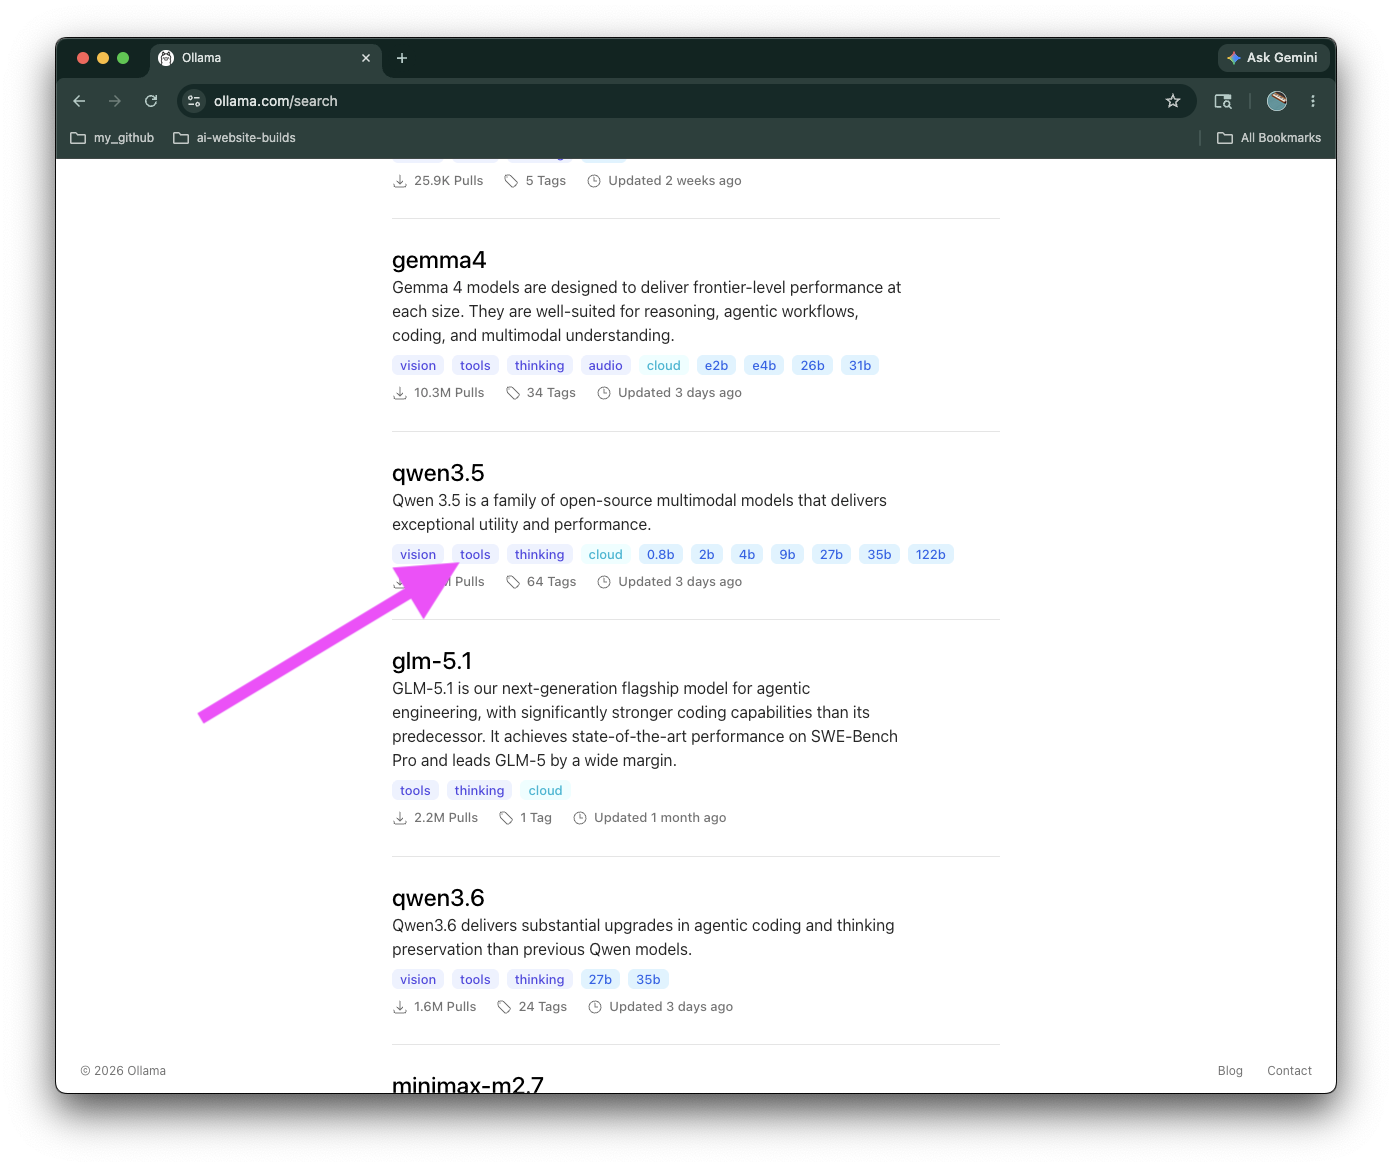
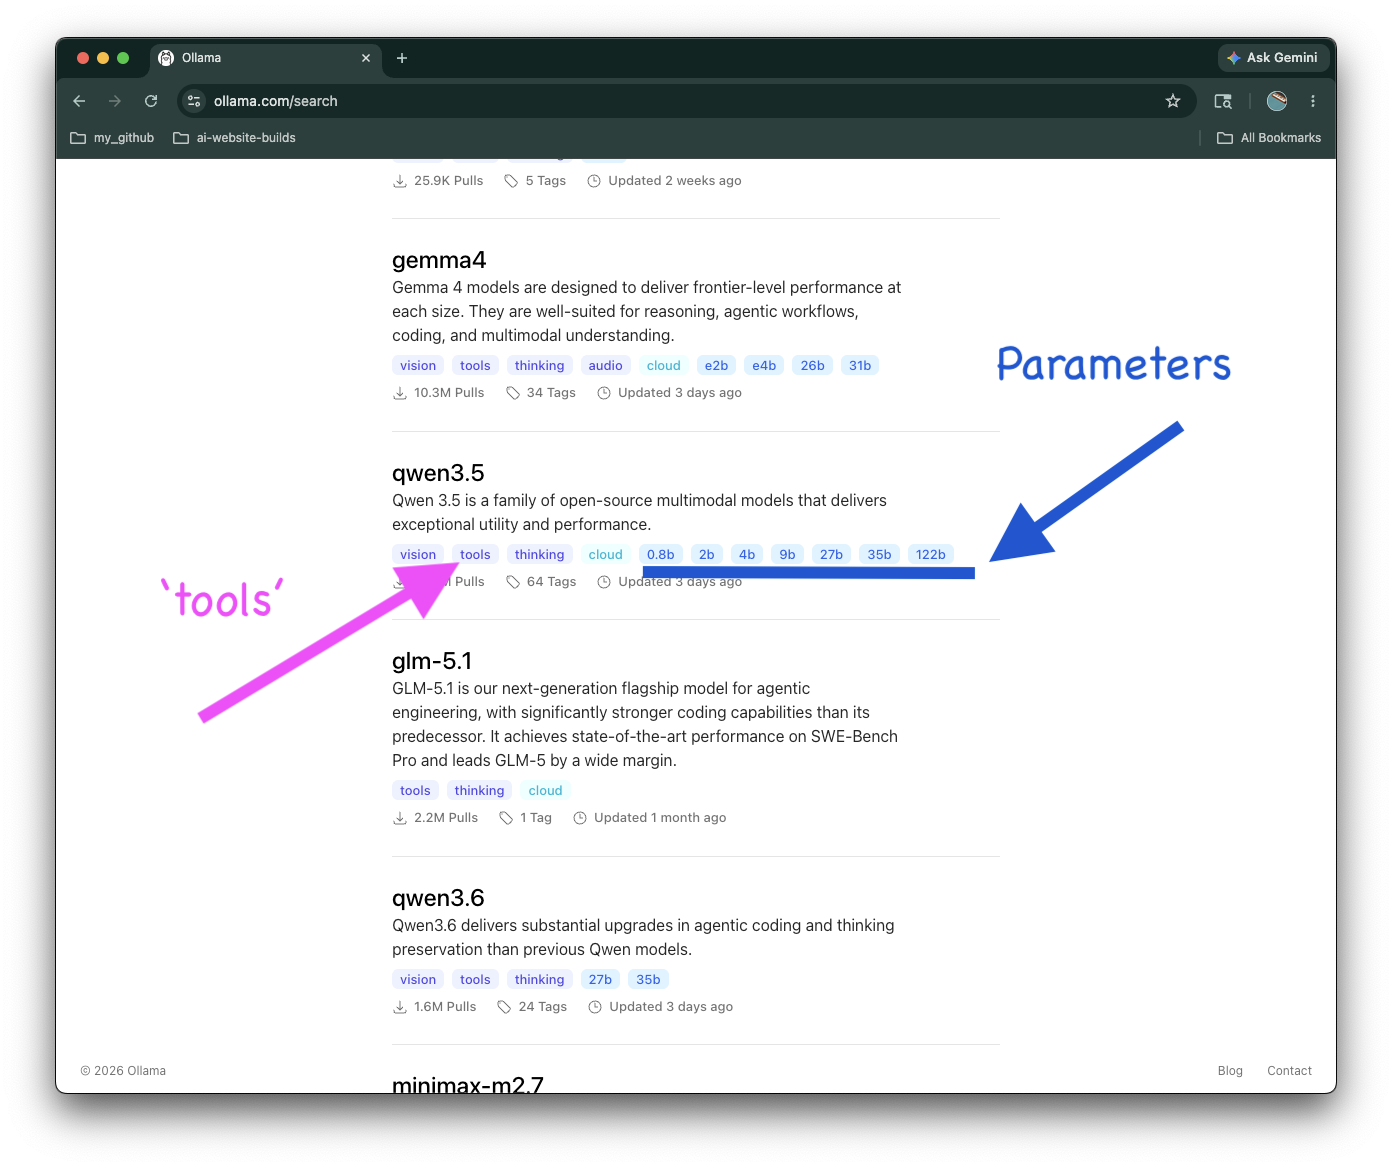
main

diff --git a/topics/ollama/01-ollama-mcp-26/side-bar-links-pages/02/02.html b/topics/ollama/01-ollama-mcp-26/side-bar-links-pages/02/02.html
@@ -13,7 +13,7 @@
                     <p>
                         Go to <a tabindex="0" rel="noopener noreferrer" target="_blank" href="https://ollama.com/">
                             https://ollama.com/</a>
-                        Click Models
+                        Click Models, and find a models with <span class="m">'tools'</span> feature
                     </p>
                 
                 </div>
@@ -26,8 +26,6 @@
                         <button class="fwdBtn">>></button>
                     </div>
                 </div>
-                
-                
             </div>
             <!-- 02  -->
             <div  tabindex="0" class="step-float" data-video="https://www.youtube.com/watch?v=GAyNvq6Ayps"
@@ -35,21 +33,16 @@
                 <h4>02 - Tools option</h4>
                 <div class="step-txt">
                     <p>
-                        Look for the <span class="m">tool</span> icon, this allows <i>ollama</i> to connect to tools to use, other wise it's just 
+                        Look for the <span class="m">tools</span> icon, this allows <i>ollama</i> to connect to tools to use, other wise it's just 
                         a chatbot on you local machine,
                         He chooses qwen 3.5.
                     </p>
                     
                 </div>
-                <!-- <div class="step-img">
-                    <img src="side-bar-links-pages/02/images/01.png" alt="">
-                </div> -->
                 <div class="imgs-container">
                     <div class="step-img">
-                        <img loading="lazy" src="side-bar-links-pages/02/images/02.png"alt="">
-                        
+                        <img loading="lazy" src="side-bar-links-pages/02/images/02.png"alt="">  
                     </div>
-                    
                 </div>
             </div>
             <!-- 03 -->
@@ -60,18 +53,23 @@
                     <p>
                         Go to <a tabindex="0"  target="_blank" href="https://ollama.com/library/qwen3.5">
                             https://ollama.com/library/qwen3.5</a>
-                        To choose from different amount of parameters, "You  macs can handle 3.5:9b" with ease so use those for now,
+                        To choose from different amount of parameters, "Your  macs can handle 3.5:9b" with ease so use those for now,
                         Don't do more than half your RAM For now
                     </p>
             
                 </div>
-                <div class="step-vid ">
-                    <video preload="none" playsinline webkit-playsinline poster="side-bar-links-pages/02/images/03.png"
-                        src="side-bar-links-pages/02/images/03.mov"></video>
-                    <div class="vid-cntrl-btns">
-                        <button class="rwdBtn">&lt;&lt;</button>
-                        <button class="playbtn">></button>
-                        <button class="fwdBtn">>></button>
+                <div class="imgs-container">
+                    <div class="step-vid ">
+                        <video preload="none" playsinline webkit-playsinline poster="side-bar-links-pages/02/images/03.png"
+                            src="side-bar-links-pages/02/images/03.mov"></video>
+                        <div class="vid-cntrl-btns">
+                            <button class="rwdBtn">&lt;&lt;</button>
+                            <button class="playbtn">></button>
+                            <button class="fwdBtn">>></button>
+                        </div>
+                    </div>
+                    <div class="step-img">
+                        <img loading="lazy" src="side-bar-links-pages/02/images/03-b.png" alt="">
                     </div>
                 </div>
             

diff --git a/topics/css/dark-mode-colorCode.css b/topics/css/dark-mode-colorCode.css
@@ -59,3 +59,10 @@ h4 .dark-mode p {color: whitesmoke;}
     border: 2px solid black !important;
     /* outline: ; */
 }
+.dark-mode .m{
+    /* text-shadow: 0 1px 1px lightslategray; */
+    color: rgb(255, 100, 255);
+    font-weight: 900;
+    font-family: monospace;
+    font-size: 120%;
+}

diff --git a/topics/css/utilities/position.css b/topics/css/utilities/position.css
@@ -6,21 +6,18 @@ html {
 body {
     position: relative;
     overflow-x: hidden;
-    width: 100%;
 }
 
 .page-wrapper {
     position: relative;
     transform: translateX(0);
     overflow-x: hidden;
-    width: 100%;
 }
 
 .page-wrapper>nav.nav-lesson-title {
     position: fixed;
     top: 4%;
     z-index: 2;
-    overflow-x: hidden;
 }
 
 .inject-content-btns-container {
@@ -31,8 +28,6 @@ body {
 
 .page-wrapper > .main-container {
     top: 10%;
-    overflow-x: hidden;
-    width: 100%;
 }
 
 .side-bar {

diff --git a/topics/css/components/side-bar.css b/topics/css/components/side-bar.css
@@ -9,10 +9,10 @@ main>.side-bar::-webkit-scrollbar {
     width: fit-content;
     border-right: 1px solid black;
     border-top: none !important;
-    flex-basis: 10%;
+    flex-basis: 40%;
     padding-right: 2%;
     position: sticky;
-    top: 10%;
+    top: 5%;
     height: 90vh;
 }
 .side-bar-links-container ul {